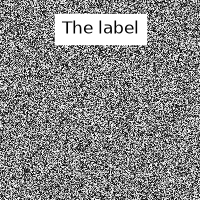
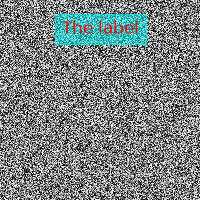
Add color options

Changed region(s): [[0.27, 0.06, 0.75, 0.24]]

diff --git a/tools/2d_add_label/2d_add_label.py b/tools/2d_add_label/2d_add_label.py
@@ -73,8 +73,11 @@ if __name__ == "__main__":
         # TODO: expose as tool parameters
         fp_lower = 'min'
         fp_upper = 'max'
-        label_text_color = '#000000ff'
-        label_background_color = '#ffffffff'
+        label_text_color = tool.args.params['label_text_color'] + 'ff'
+        label_background_color = (
+            tool.args.params['label_background_color'] +  # RGB in hex
+            '{:02x}'.format(round(tool.args.params['label_background_opacity'] * 0xff))  # opacity in hex
+        )
         fontsize = tool.args.params['fontsize']
         position_v = tool.args.params['position_v']
         position_h = tool.args.params['position_h']
